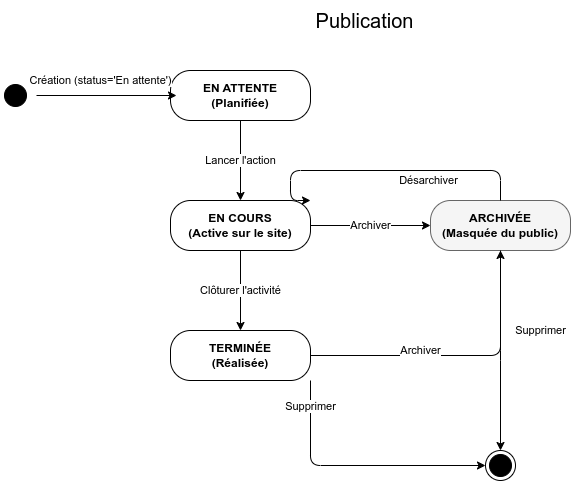
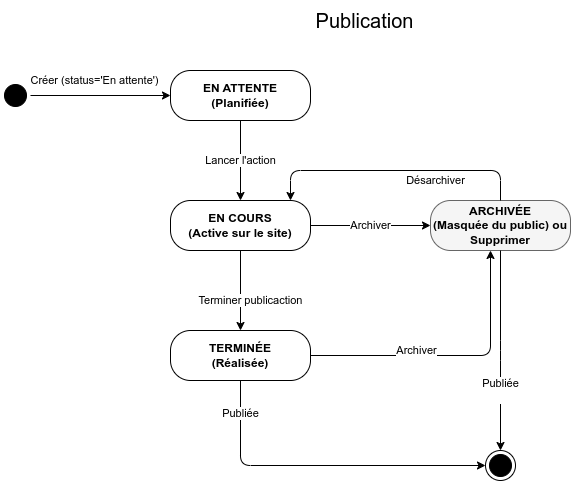
modif diagramme

diff --git a/admin/src/Login.jsx b/admin/src/Login.jsx
@@ -4,6 +4,7 @@ import api from './api'
 export default function Login({ onLogin }) {
   const [username, setUsername] = useState('')
   const [password, setPassword] = useState('')
+  const [showPassword, setShowPassword] = useState(false)
   const [loading, setLoading] = useState(false)
   const [error, setError] = useState(null)
 
@@ -77,17 +78,33 @@ export default function Login({ onLogin }) {
               <label htmlFor="password" className="block text-sm font-bold text-slate-700">
                 Mot de passe
               </label>
-              <div className="mt-1">
+              <div className="mt-1 relative">
                 <input
                   id="password"
                   name="password"
-                  type="password"
+                  type={showPassword ? 'text' : 'password'}
                   required
                   value={password}
                   onChange={(e) => setPassword(e.target.value)}
-                  className="appearance-none block w-full px-4 py-3 border border-slate-200 rounded-xl shadow-sm placeholder-slate-400 focus:outline-none focus:ring-primary focus:border-primary transition"
+                  className="appearance-none block w-full px-4 py-3 pr-12 border border-slate-200 rounded-xl shadow-sm placeholder-slate-400 focus:outline-none focus:ring-primary focus:border-primary transition"
                   placeholder="••••••••"
                 />
+                <button
+                  type="button"
+                  onClick={() => setShowPassword(!showPassword)}
+                  className="absolute inset-y-0 right-0 pr-3 flex items-center text-slate-400 hover:text-slate-600 transition"
+                >
+                  {showPassword ? (
+                    <svg className="h-5 w-5" fill="none" viewBox="0 0 24 24" stroke="currentColor">
+                      <path strokeLinecap="round" strokeLinejoin="round" strokeWidth={2} d="M13.875 18.825A10.05 10.05 0 0112 19c-4.478 0-8.268-2.943-9.543-7a9.97 9.97 0 011.563-3.029m5.858.908a3 3 0 114.243 4.243M9.878 9.878l4.242 4.242M9.88 9.88l-3.29-3.29m7.532 7.532l3.29 3.29M3 3l3.59 3.59m0 0A9.953 9.953 0 0112 5c4.478 0 8.268 2.943 9.543 7a10.025 10.025 0 01-4.132 5.411m0 0L21 21" />
+                    </svg>
+                  ) : (
+                    <svg className="h-5 w-5" fill="none" viewBox="0 0 24 24" stroke="currentColor">
+                      <path strokeLinecap="round" strokeLinejoin="round" strokeWidth={2} d="M15 12a3 3 0 11-6 0 3 3 0 016 0z" />
+                      <path strokeLinecap="round" strokeLinejoin="round" strokeWidth={2} d="M2.458 12C3.732 7.943 7.523 5 12 5c4.478 0 8.268 2.943 9.542 7-1.274 4.057-5.064 7-9.542 7-4.477 0-8.268-2.943-9.542-7z" />
+                    </svg>
+                  )}
+                </button>
               </div>
             </div>
 

diff --git a/server/routes/authRoutes.js b/server/routes/authRoutes.js
@@ -4,6 +4,17 @@ const authController = require('../controllers/authController');
 const validate = require('../middleware/validator');
 const rateLimit = require('express-rate-limit');
 
+// Rate limiter spécifique pour le login (protection brute force)
+const loginLimiter = rateLimit({
+  windowMs: 15 * 60 * 1000, // 15 minutes
+  max: 5, // 5 tentatives
+  message: { message: 'Trop de tentatives de connexion. Réessayez dans 15 minutes.' },
+  skip: (req) => req.method === 'OPTIONS',
+  standardHeaders: true,
+  legacyHeaders: false
+});
+
+// Rate limiter pour les autres routes sensibles
 const strictLimiter = rateLimit({
   windowMs: 60 * 60 * 1000,
   max: 10,
@@ -14,7 +25,7 @@ const strictLimiter = rateLimit({
 const auth = require('../middleware/auth');
 
 router.post('/register', strictLimiter, validate('auth'), authController.register);
-router.post('/login', strictLimiter, validate('auth'), authController.login);
+router.post('/login', loginLimiter, validate('auth'), authController.login);
 router.get('/me', auth, authController.me);
 router.put('/update', auth, authController.updateProfile);
 router.delete('/:id', auth, authController.deleteUser);